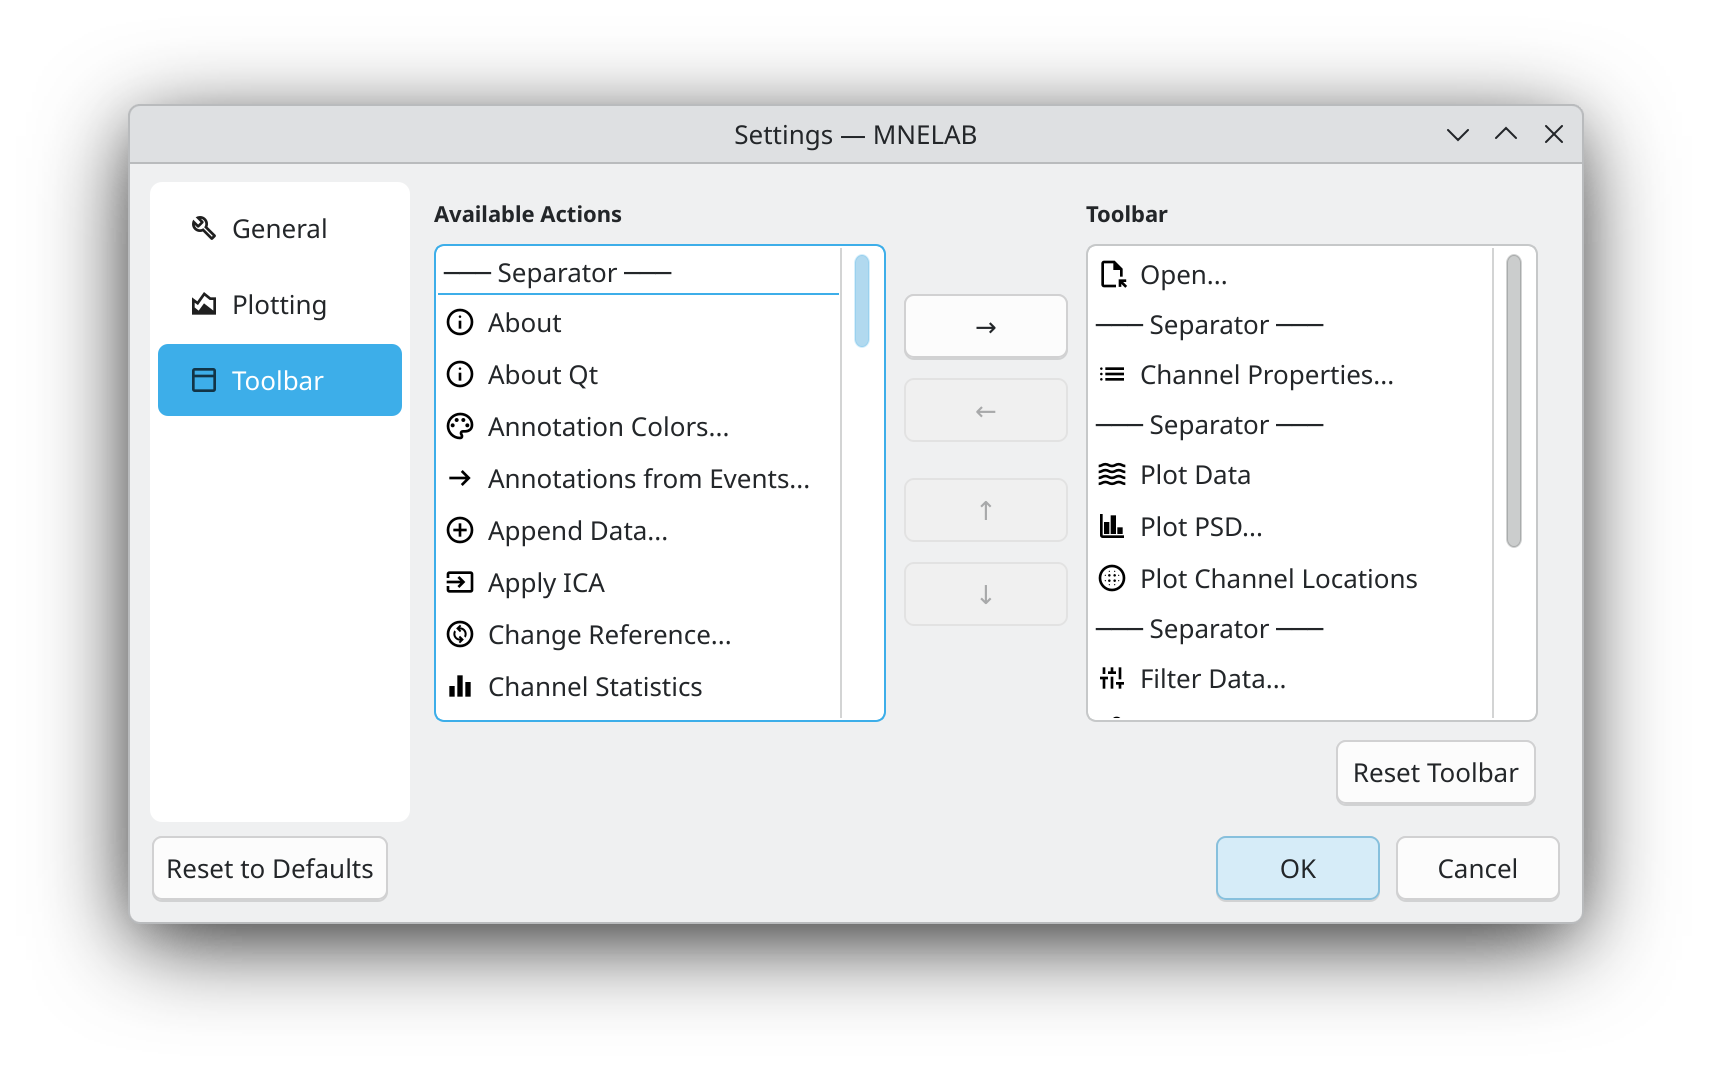
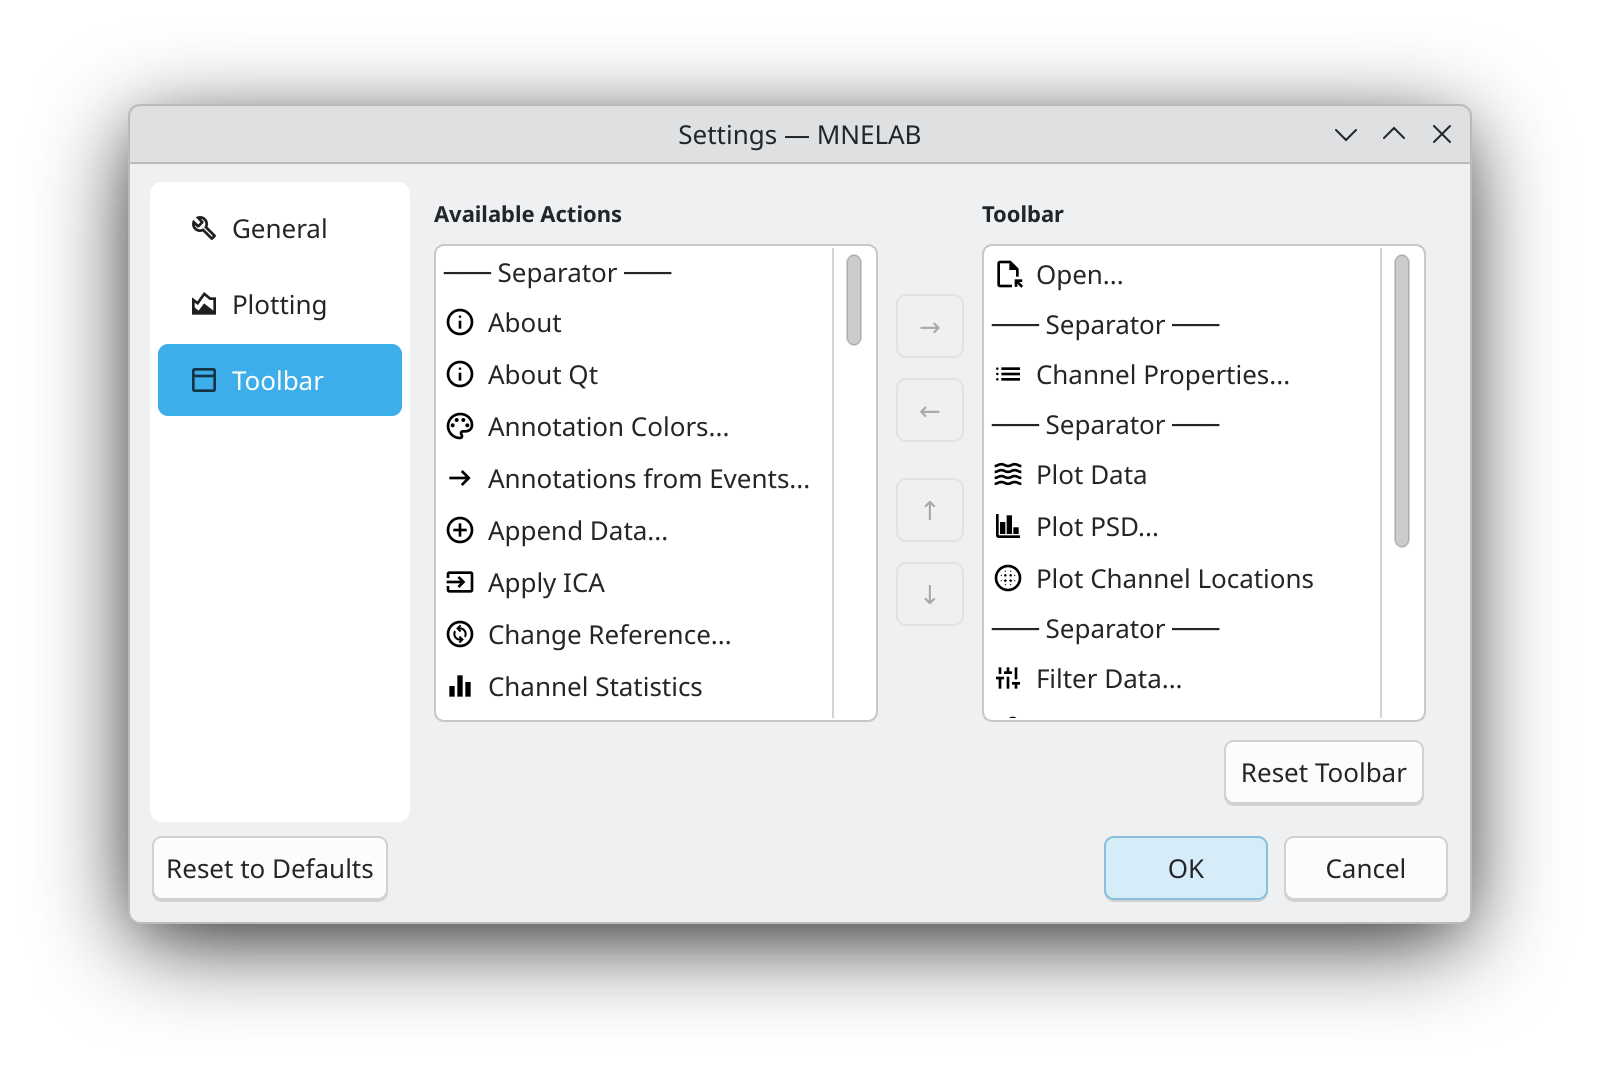
Fix settings docs (#664)
* Fix typo

* Update screenshot

Pull request: Fix settings docs
Fix a minor typo and update the screenshot.

diff --git a/docs/documentation/settings.md b/docs/documentation/settings.md
@@ -38,7 +38,7 @@ The *Plotting* section contains options related to the appearance of plots in MN
 
 The *Plot Backend* option allows you to choose between two different plotting backends for the data browser: *Matplotlib* and *Qt*. Whereas the *Matplotlib* backend provides a more traditional user experience, the *Qt* backend offers a more modern and possibly also more responsive interface.
 
-The other options in this section allow you to customize the default appearance of the data browser, namely the number of display channels, the displayed signal duration on a single page, and if you are visualizing epochs, the number of epochs shown at once. Of course, these settings can be adjusted on a per-plot basis in the data browser itself, but they will be used as defaults when opening new plots.
+The other options in this section allow you to customize the default appearance of the data browser, namely the number of displayed channels, the displayed signal duration on a single page, and if you are visualizing epochs, the number of epochs shown at once. Of course, these settings can be adjusted on a per-plot basis in the data browser itself, but they will be used as defaults when opening new plots.
 
 
 ### Toolbar